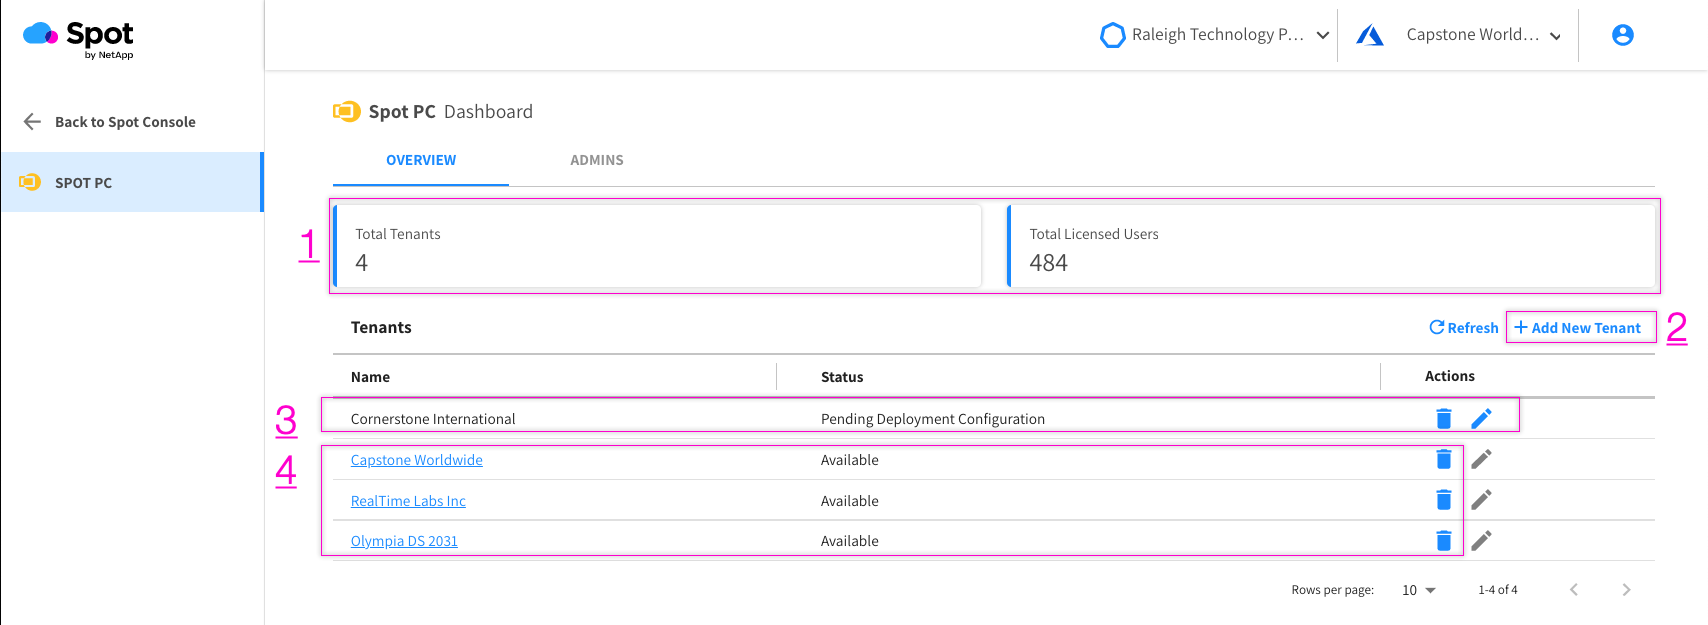
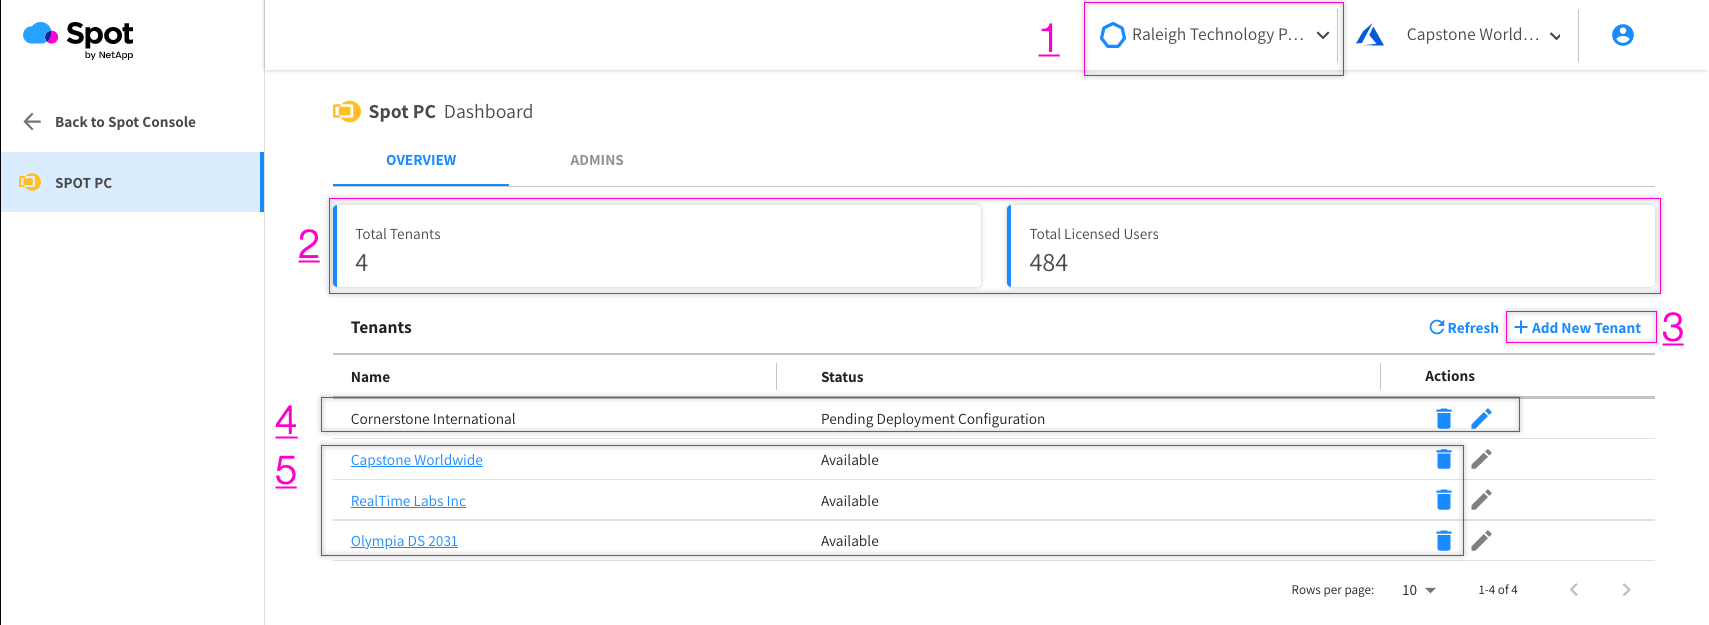
updates

diff --git a/src/docs/spot-pc/features/spot-pc-console/tenant/config-actions.md b/src/docs/spot-pc/features/spot-pc-console/tenant/config-actions.md
@@ -12,15 +12,16 @@ Config actions for Images include: List, Create, Edit and Delete.
 A tutorial for deploying Spot PC covering creating an Image and deploying a Spot Group is found [here](spot-pc/tutorials/deploy-spot-pc).
 
 ## Spot Groups
-Config actions for Spot Groups include: List, Create, Edit, Update and Delete.
-<br><img src="/spot-pc/_media/features-spot-pc-console-tenant-config-actions-03.png" />
-
+Config actions for Spot Groups include: List, Create, Edit, Update and Delete.<br>
 **Update** is used to update the Image used for the Spot Group, updating the machine(s) used to host users' desktops. A tutorial for updating a Spot Group with a new Image is found [here](spot-pc/tutorials/deploy-image-update).
 
+<br><img src="/spot-pc/_media/features-spot-pc-console-tenant-config-actions-03.png" />
+
+
 ## Windows 365
-Config actions for Windows 365 Connections include: View, Create, Edit and Delete.
-Config actions for Windows 365 Images include: View, Create and Delete.
-Config actions for Windows 365 Provisioning Policies include: View, Create, Edit and Delete.
+Config actions for Windows 365 Connections include: View, Create, Edit and Delete.<br>
+Config actions for Windows 365 Images include: View, Create and Delete.<br>
+Config actions for Windows 365 Provisioning Policies include: View, Create, Edit and Delete.<br>
 
 A tutorial covering Windows 365 Cloud PC deployments (including Connections, Images and Provisioning Policies) can be found [here](spot-pc/tutorials/deploy-windows-365-cloud-pc).
 

diff --git a/src/docs/spot-pc/features/spot-pc-console/overview.md b/src/docs/spot-pc/features/spot-pc-console/overview.md
@@ -2,12 +2,13 @@
 
 # Spot PC: Overview
 
-The overview page is the landing post when a Spot PC admin first authenticates into the Spot PC console.
+The Spot PC: Overview page is the landing post when a Spot PC admin first authenticates into the Spot PC console.
 
-1. This page summarizes the total number of tenants and licensed users this admin can access.
-2. A new tenant can be added from this page.
-3. In progress deployments can be resumed from here, an option to delete the pending tenant is available.
-4. A list of all of the Admin's deployed tenants are listed here, an option to delete the tenant is available.
+1. This page shows specific information for the selected organization context. The contenxt can be switched to other organization(s) from the menu in the uppper right corner.   
+2. This page summarizes the total number of tenants and licensed users this admin can access.
+3. A new tenant can be added from this page. The add tenant turorial can be [found here](spot-pc/tutorials/add-tenant).
+4. In progress deployments can be resumed from here, an option to delete the pending tenant is also available.
+5. A list of all of the deployed tenants are listed here, an option to delete the tenant is also available.
 
 <br><a href="https://docs.spot.io/spot-pc/_media/features-spot-pc-console-overview-01.png" target="_blank"><img src="/spot-pc/_media/features-spot-pc-console-overview-01.png" alt="Click to Enlarge" width="1000"> </a>
 

diff --git a/src/docs/spot-pc/features/spot-pc-console/tenant/security.md b/src/docs/spot-pc/features/spot-pc-console/tenant/security.md
@@ -9,7 +9,7 @@ From any other tenant-specific page, clicking on the _Security_ tab brings you t
 4. Security alerts are listed at the bottom. Clicking the description will bring you to details about the alert and provide for action to be taken.
 5. Recommendations are listed at the bottom, accessed by clicking the Recommendations tab. Recommendations can be expanded to see detail. Acting on these recommendations can negatively impact end user workflows and should be handled through your own change control process to avoid impacting end user productivity.
 
-<br><a href="https://docs.spot.io/spot-pc/_media/features-spot-pc-console-tenant-security-01.png" target="_blank"><img src="/spot-pc/_media/features-spot-pc-console-tenant-security-01" alt="Click to Enlarge" width="1000"> </a>
+<br><a href="https://docs.spot.io/spot-pc/_media/features-spot-pc-console-tenant-security-01.png" target="_blank"><img src="/spot-pc/_media/features-spot-pc-console-tenant-security-01.png" alt="Click to Enlarge" width="1000"> </a>
 
 ## What’s Next?
 

diff --git a/src/docs/spot-pc/features/spot-pc-console/tenant/logs.md b/src/docs/spot-pc/features/spot-pc-console/tenant/logs.md
@@ -8,7 +8,7 @@ From any other tenant-specific page, clicking on the _Logs_ tab brings you to th
 3. The log data can be downloaded as a CSV file.
 4. The lg data is displayed in the table below.
 
-<br><a href="https://docs.spot.io/spot-pc/_media/features-spot-pc-console-tenant-user-logs-01.png" target="_blank"><img src="/spot-pc/_media/features-spot-pc-console-tenant-user-logs-01.png" alt="Click to Enlarge" width="1000"> </a>
+<br><a href="https://docs.spot.io/spot-pc/_media/features-spot-pc-console-tenant-logs-01.png" target="_blank"><img src="/spot-pc/_media/features-spot-pc-console-tenant-logs-01.png" alt="Click to Enlarge" width="1000"> </a>
 
 ## What’s Next?
 
